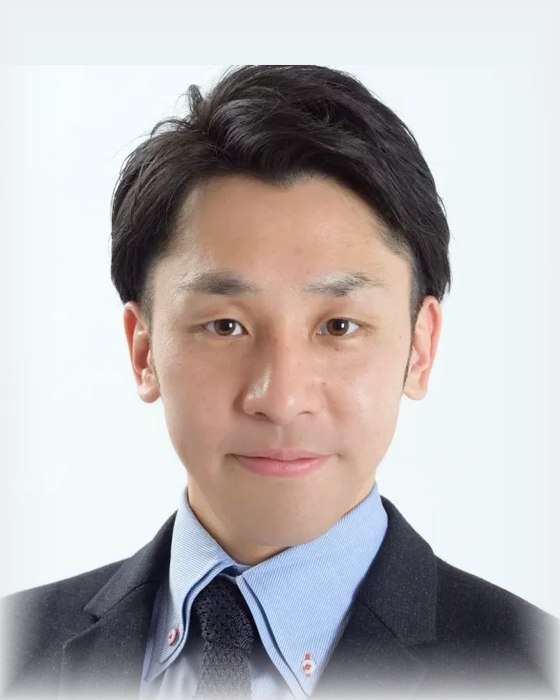
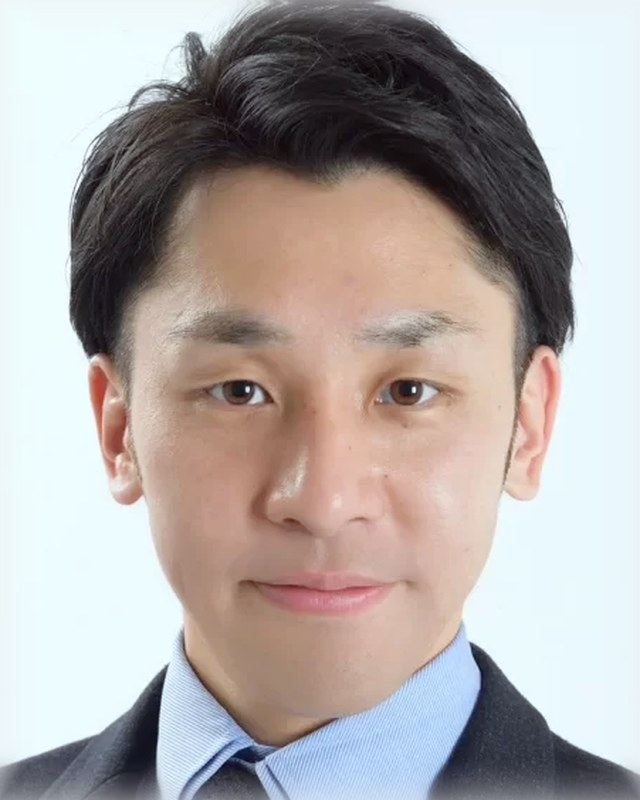
アドバイザーの頭の位置と大きさを全員でそろえ、3段構成に変更
これまでは1枚ずつ目測で切り出していたため、顔の大きさと位置が
そろっていなかった。頭の実測値から計算して切り出す方式に変更した。

切り出しの方式:
- 7枚それぞれについて、頭の中心x・頭頂y・あごyを実測
- 出力に対して「頭の高さ40%、頭頂の位置12%、顔の中心は左右中央」に
  なるよう、切り出す範囲を計算で決定
- はみ出す分は鏡像で埋め、継ぎ目をぼかして枠内に余白が出ないように
- 元画像が小さいもの（河合・上園・福田）は拡大率に応じて軽くシャープに
- 出力を640x800に拡大し、外周のなじませ処理は控えめに

配置:
- 上段：見邨・福田・丸山先生／中段：森下・木戸／下段：河合・上園
- 2名の段もカード幅は3列のときと同じにして中央に寄せる
- グリッド全体の幅を920pxに制限し、縦に間延びしないよう調整
- スマホでは段組みを解除して7名を2列で流す

表記:
- 森下健の肩書きを「メンタル」から「メンタルトレーニングコーチ」に変更
- 漢字の確認が取れたため、氏名・肩書きのTODO注記を削除

Claude-Session: https://claude.ai/code/session_01Jax3jZugA7XXTDqSSKQ8SQ

diff --git a/index.html b/index.html
@@ -371,14 +371,22 @@ table{ border-collapse:collapse; width:100%; }
 @media (max-width:720px){ .levels{ grid-template-columns:1fr; } }
 
 /* アドバイザー */
-.adv{ margin-top:28px; display:grid; grid-template-columns:repeat(4,1fr); gap:16px; }
+.adv{ margin-top:28px; display:flex; flex-direction:column; gap:16px; max-width:920px; margin-left:auto; margin-right:auto; }
+/* 3名／2名／2名の3段。2名の段もカード幅は3列のときと同じにして中央に寄せる */
+.adv-row{ display:grid; gap:16px; justify-content:center; }
+.adv-row-3{ grid-template-columns:repeat(3, minmax(0,1fr)); }
+.adv-row-2{ grid-template-columns:repeat(2, calc((100% - 32px) / 3)); }
 .adv-c{ background:var(--paper); border:1px solid var(--line); padding:0; text-align:center; overflow:hidden; }
 .adv-ph{ width:100%; aspect-ratio:4/5; overflow:hidden; background:var(--bg-gray); }
 .adv-ph img{ width:100%; height:100%; object-fit:cover; display:block; transition:transform .6s ease; }
 .adv-c:hover .adv-ph img{ transform:scale(1.04); }
 .adv-n{ margin-top:18px; padding:0 12px; font-weight:700; font-size:16px; color:var(--ink-strong); }
 .adv-r{ margin-top:6px; padding:0 12px 22px; font-size:12.5px; color:var(--mute); line-height:1.65; }
-@media (max-width:900px){ .adv{ grid-template-columns:repeat(2,1fr); gap:12px; } }
+/* スマホでは段組みを解除し、7名を2列で素直に流す */
+@media (max-width:900px){
+  .adv{ display:grid; grid-template-columns:repeat(2,1fr); gap:12px; max-width:none; }
+  .adv-row{ display:contents; }
+}
 /* スマホの2列では肩書きが折り返しやすいので少し詰める */
 @media (max-width:520px){
   .adv-n{ margin-top:14px; font-size:14.5px; }
@@ -798,44 +806,48 @@ height="0" width="0" style="display:none;visibility:hidden"></iframe></noscript>
     </div>
 
     <div class="adv rv">
-      <div class="adv-c">
-        <div class="adv-ph"><img src="images/advisor-01.jpg" alt="見邨 直人" width="560" height="700" loading="lazy"></div>
-        <p class="adv-n">見邨 直人</p>
-        <p class="adv-r">現役プロ野球トレーナー</p>
+      <div class="adv-row adv-row-3">
+        <div class="adv-c">
+          <div class="adv-ph"><img src="images/advisor-01.jpg" alt="見邨 直人" width="640" height="800" loading="lazy"></div>
+          <p class="adv-n">見邨 直人</p>
+          <p class="adv-r">現役プロ野球トレーナー</p>
+        </div>
+        <div class="adv-c">
+          <div class="adv-ph"><img src="images/advisor-02.jpg" alt="福田 紳一郎" width="640" height="800" loading="lazy"></div>
+          <p class="adv-n">福田 紳一郎</p>
+          <p class="adv-r">現役MLBトレーナー</p>
+        </div>
+        <div class="adv-c">
+          <div class="adv-ph"><img src="images/advisor-05.jpg" alt="丸山先生" width="640" height="800" loading="lazy"></div>
+          <p class="adv-n">丸山先生</p>
+          <p class="adv-r">機能解剖学</p>
+        </div>
       </div>
-      <div class="adv-c">
-        <div class="adv-ph"><img src="images/advisor-02.jpg" alt="福田 紳一郎" width="560" height="700" loading="lazy"></div>
-        <p class="adv-n">福田 紳一郎</p>
-        <p class="adv-r">現役MLBトレーナー</p>
+      <div class="adv-row adv-row-2">
+        <div class="adv-c">
+          <div class="adv-ph"><img src="images/advisor-06.jpg" alt="森下 健" width="640" height="800" loading="lazy"></div>
+          <p class="adv-n">森下 健</p>
+          <p class="adv-r"><span class="nw">メンタル</span><span class="nw">トレーニングコーチ</span></p>
+        </div>
+        <div class="adv-c">
+          <div class="adv-ph"><img src="images/advisor-07.jpg" alt="木戸 清香" width="640" height="800" loading="lazy"></div>
+          <p class="adv-n">木戸 清香</p>
+          <p class="adv-r">管理栄養士</p>
+        </div>
       </div>
-      <div class="adv-c">
-        <div class="adv-ph"><img src="images/advisor-03.jpg" alt="上園 啓史" width="560" height="700" loading="lazy"></div>
-        <p class="adv-n">上園 啓史</p>
-        <p class="adv-r">元プロ野球選手</p>
-      </div>
-      <div class="adv-c">
-        <div class="adv-ph"><img src="images/advisor-04.jpg" alt="河合 庄司" width="560" height="700" loading="lazy"></div>
-        <p class="adv-n">河合 庄司</p>
-        <p class="adv-r">プロゴルファー</p>
-      </div>
-      <div class="adv-c">
-        <div class="adv-ph"><img src="images/advisor-05.jpg" alt="丸山先生" width="560" height="700" loading="lazy"></div>
-        <p class="adv-n">丸山先生</p>
-        <p class="adv-r">機能解剖学</p>
-      </div>
-      <div class="adv-c">
-        <div class="adv-ph"><img src="images/advisor-06.jpg" alt="森下 健" width="560" height="700" loading="lazy"></div>
-        <p class="adv-n">森下 健</p>
-        <p class="adv-r">メンタル</p>
-      </div>
-      <div class="adv-c">
-        <div class="adv-ph"><img src="images/advisor-07.jpg" alt="木戸 清香" width="560" height="700" loading="lazy"></div>
-        <p class="adv-n">木戸 清香</p>
-        <p class="adv-r">管理栄養士</p>
+      <div class="adv-row adv-row-2">
+        <div class="adv-c">
+          <div class="adv-ph"><img src="images/advisor-04.jpg" alt="河合 庄司" width="640" height="800" loading="lazy"></div>
+          <p class="adv-n">河合 庄司</p>
+          <p class="adv-r">プロゴルファー</p>
+        </div>
+        <div class="adv-c">
+          <div class="adv-ph"><img src="images/advisor-03.jpg" alt="上園 啓史" width="640" height="800" loading="lazy"></div>
+          <p class="adv-n">上園 啓史</p>
+          <p class="adv-r">元プロ野球選手</p>
+        </div>
       </div>
     </div>
-    <p class="note rv"><span class="todo">TODO</span>お名前と肩書きは、いただいた写真のファイル名の表記をそのまま使っています。
-    ご確認のうえ、修正があればお知らせください。</p>
 
     <div class="tbl tbl-scroll rv" style="margin-top:52px">
       <table>
